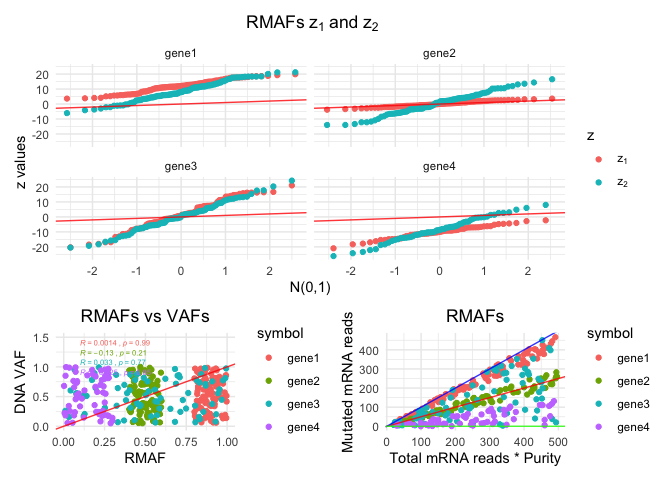
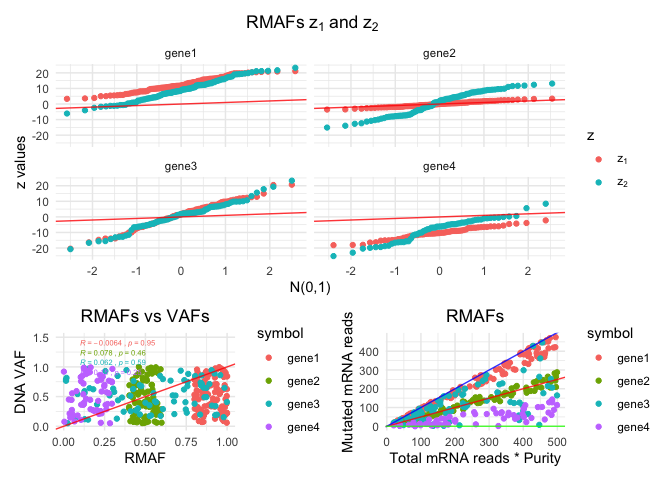
modified example

diff --git a/README.md b/README.md
@@ -36,7 +36,7 @@ mutations = data.frame(
                  alt='A',
                  sample_id='CT26',
                  symbol ='Cntnap4')
-RmafsterCalc(
+rmafs = RmafsterCalc(
      mutations,
      samples
 )
@@ -46,10 +46,6 @@ RmafsterCalc(
 #> file, using 0.5 for all mutations
 #> Warning in RmafsterCalc(mutations, samples): dna_dp column not found in mutation
 #> file, using 200 for all mutations
-#>    chr       pos ref alt sample_id  symbol var vaf dna_dp ref_alleles
-#> 1 chr8 115305465   G   A      CT26 Cntnap4 SNP 0.5    200           5
-#>   alt_alleles other_alleles purity rna_dp rmaf
-#> 1           5             0      1     10  0.5
 ```
 
 Once RMAFs are calculated you can quickly explore them and compare
@@ -86,16 +82,16 @@ RmafsterExpl(
 ![](man/figures/README-plot-1.png)<!-- -->
 
     #> # A tibble: 330 x 9
-    #>    symbol n_muts  rmaf purity rna_dp dna_dp   vaf    z1     z2
-    #>    <chr>   <int> <dbl>  <dbl>  <int>  <int> <dbl> <dbl>  <dbl>
-    #>  1 gene1     100 0.884      1    465    188 0.694 16.6   5.84 
-    #>  2 gene1     100 0.8        1    296    367 0.242 10.3  14.3  
-    #>  3 gene1     100 0.91       1    297    129 0.815 14.1   2.78 
-    #>  4 gene1     100 0.84       1     83    208 0.304  6.20  8.29 
-    #>  5 gene1     100 0.928      1    222    234 0.449 12.8  11.0  
-    #>  6 gene1     100 0.843      1    314    483 0.451 12.2  11.1  
-    #>  7 gene1     100 0.817      1    329    413 0.544 11.5   7.83 
-    #>  8 gene1     100 0.8        1    409    438 0.806 12.1  -0.219
-    #>  9 gene1     100 0.915      1    323    339 0.467 14.9  12.4  
-    #> 10 gene1     100 0.842      1    199    323 0.299  9.65 12.1  
+    #>    symbol n_muts  rmaf purity rna_dp dna_dp   vaf    z1    z2
+    #>    <chr>   <int> <dbl>  <dbl>  <int>  <int> <dbl> <dbl> <dbl>
+    #>  1 gene1     100 0.827      1    199    258 0.863  9.23 -1.06
+    #>  2 gene1     100 0.97       1    279    345 0.119 15.7  21.1 
+    #>  3 gene1     100 0.904      1    414    101 0.334 16.4  12.7 
+    #>  4 gene1     100 0.867      1    338    426 0.615 13.5   7.76
+    #>  5 gene1     100 1          1    129    462 0.224 11.4  16.0 
+    #>  6 gene1     100 0.986      1     32    242 0.32   5.50  7.23
+    #>  7 gene1     100 0.972      1     61    266 0.164  7.37 12.3 
+    #>  8 gene1     100 0.954      1    473    241 0.544 19.7  13.4 
+    #>  9 gene1     100 0.926      1    191    420 0.126 11.8  18.9 
+    #> 10 gene1     100 0.8        1    415    425 0.454 12.2  10.4 
     #> # … with 320 more rows
